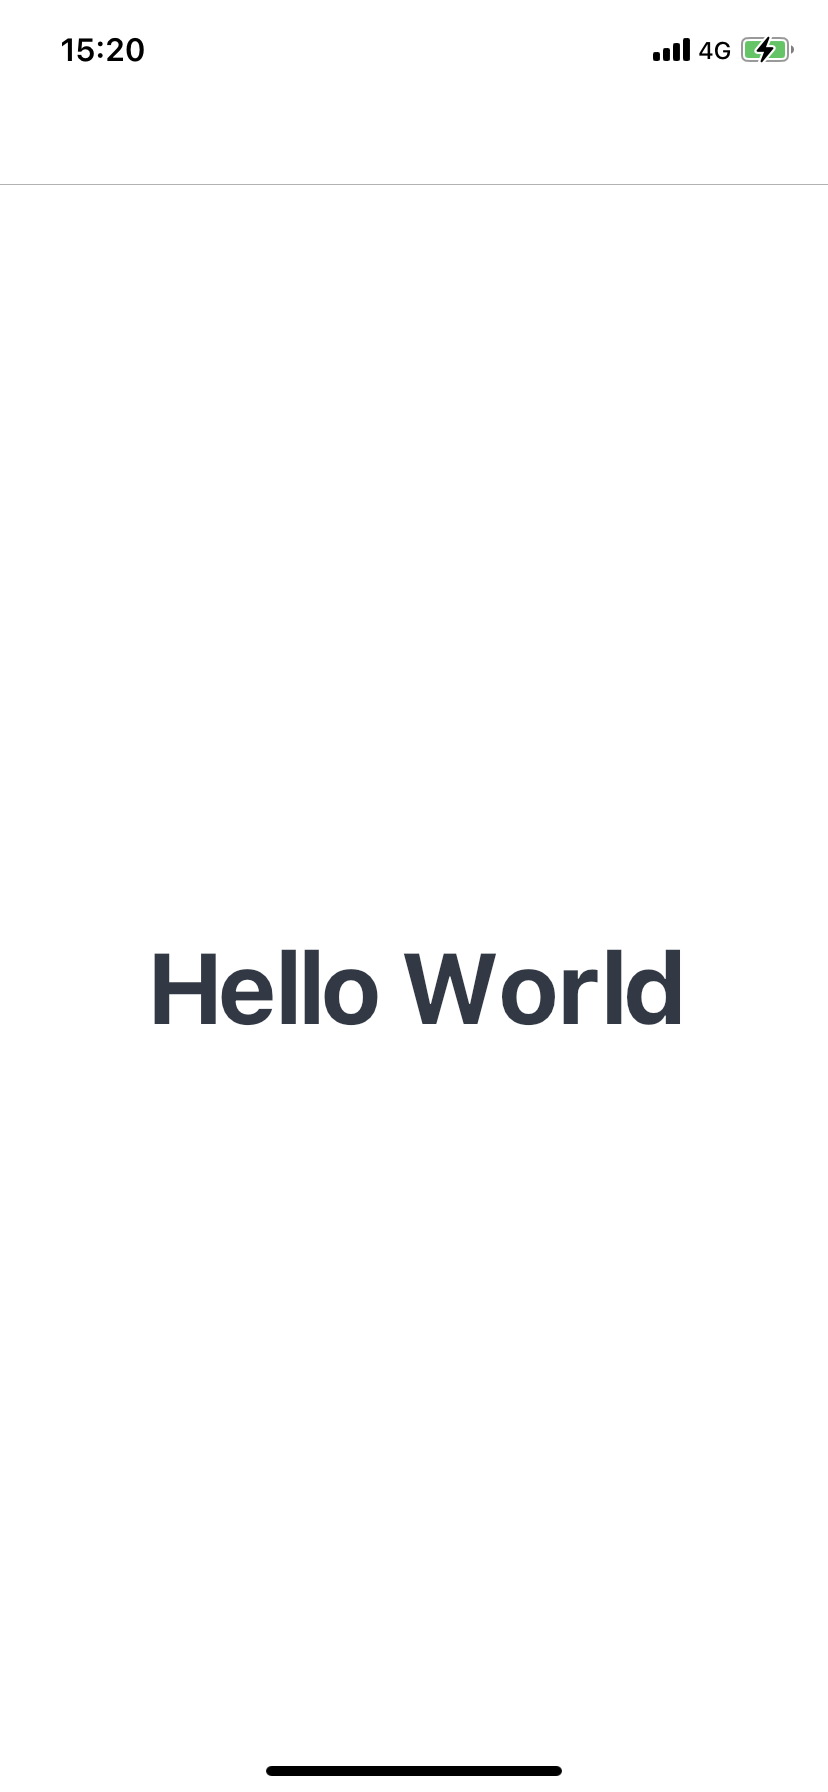
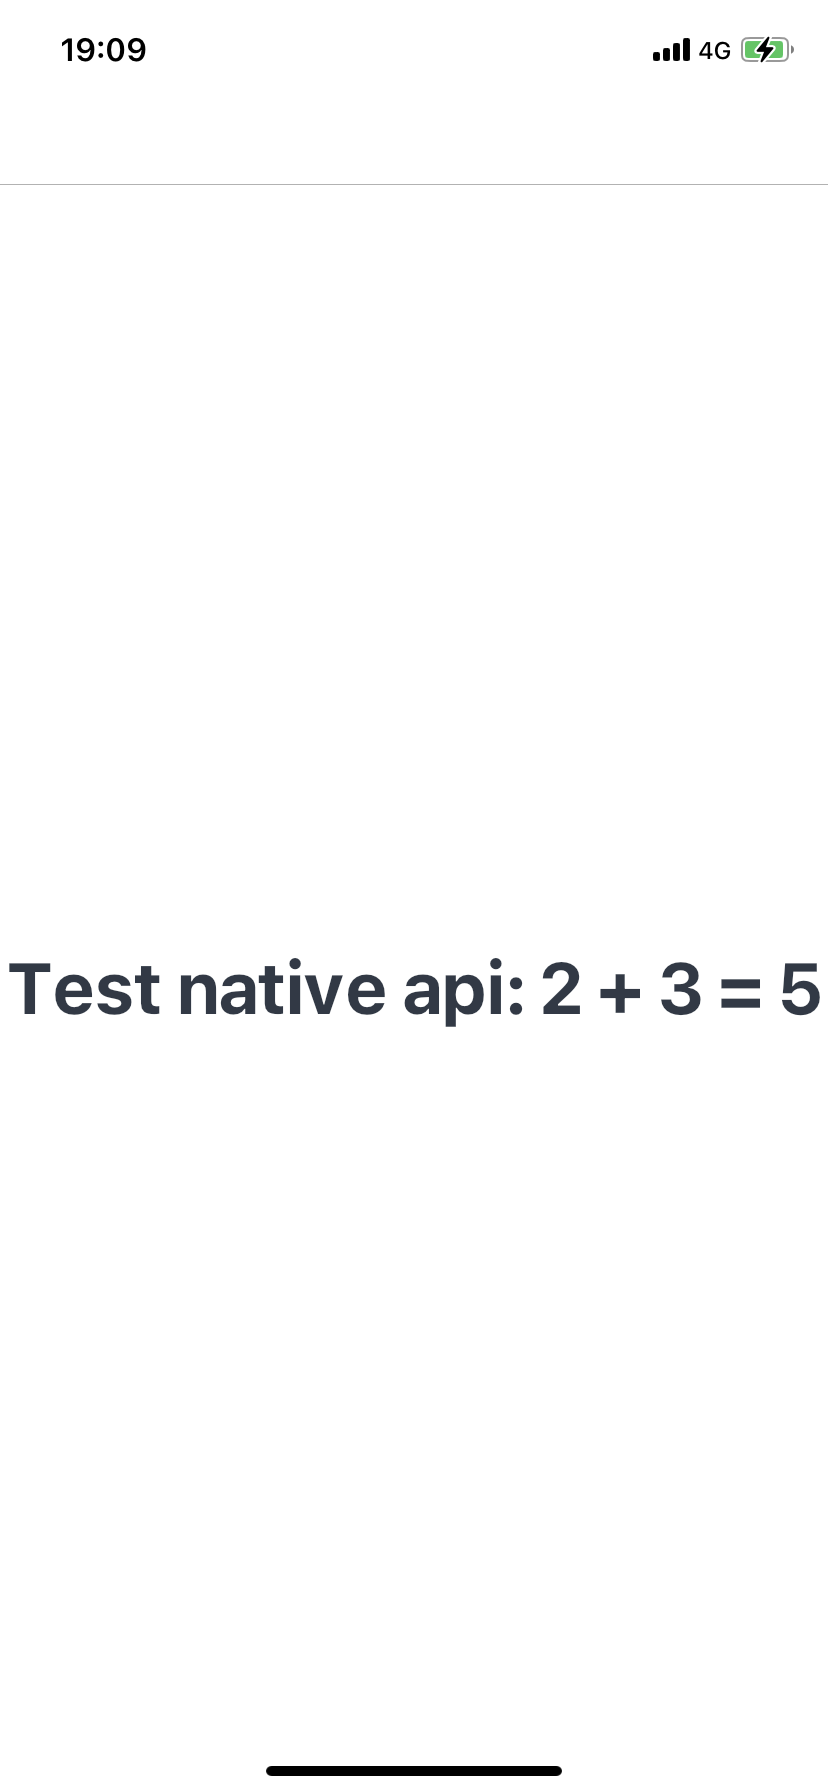
修改Native的页面效果

Changed region(s): [[0.0, 0.5312, 0.8454, 0.5938], [0.8756, 0.5312, 0.9964, 0.5625], [0.0906, 0.0, 0.1812, 0.0312]]

diff --git a/Native/README.md b/Native/README.md
@@ -22,9 +22,9 @@
 
 ## 使用说明
 
-1.打开应用，首页面显示一个button和一个Text。
+1.打开应用，首页显示一个Text文本。
 
-2.点击Button按键，Text内容发生改变。
+2.点击文字部分，Text内容发生改变。
 
 ## 约束与限制
 
